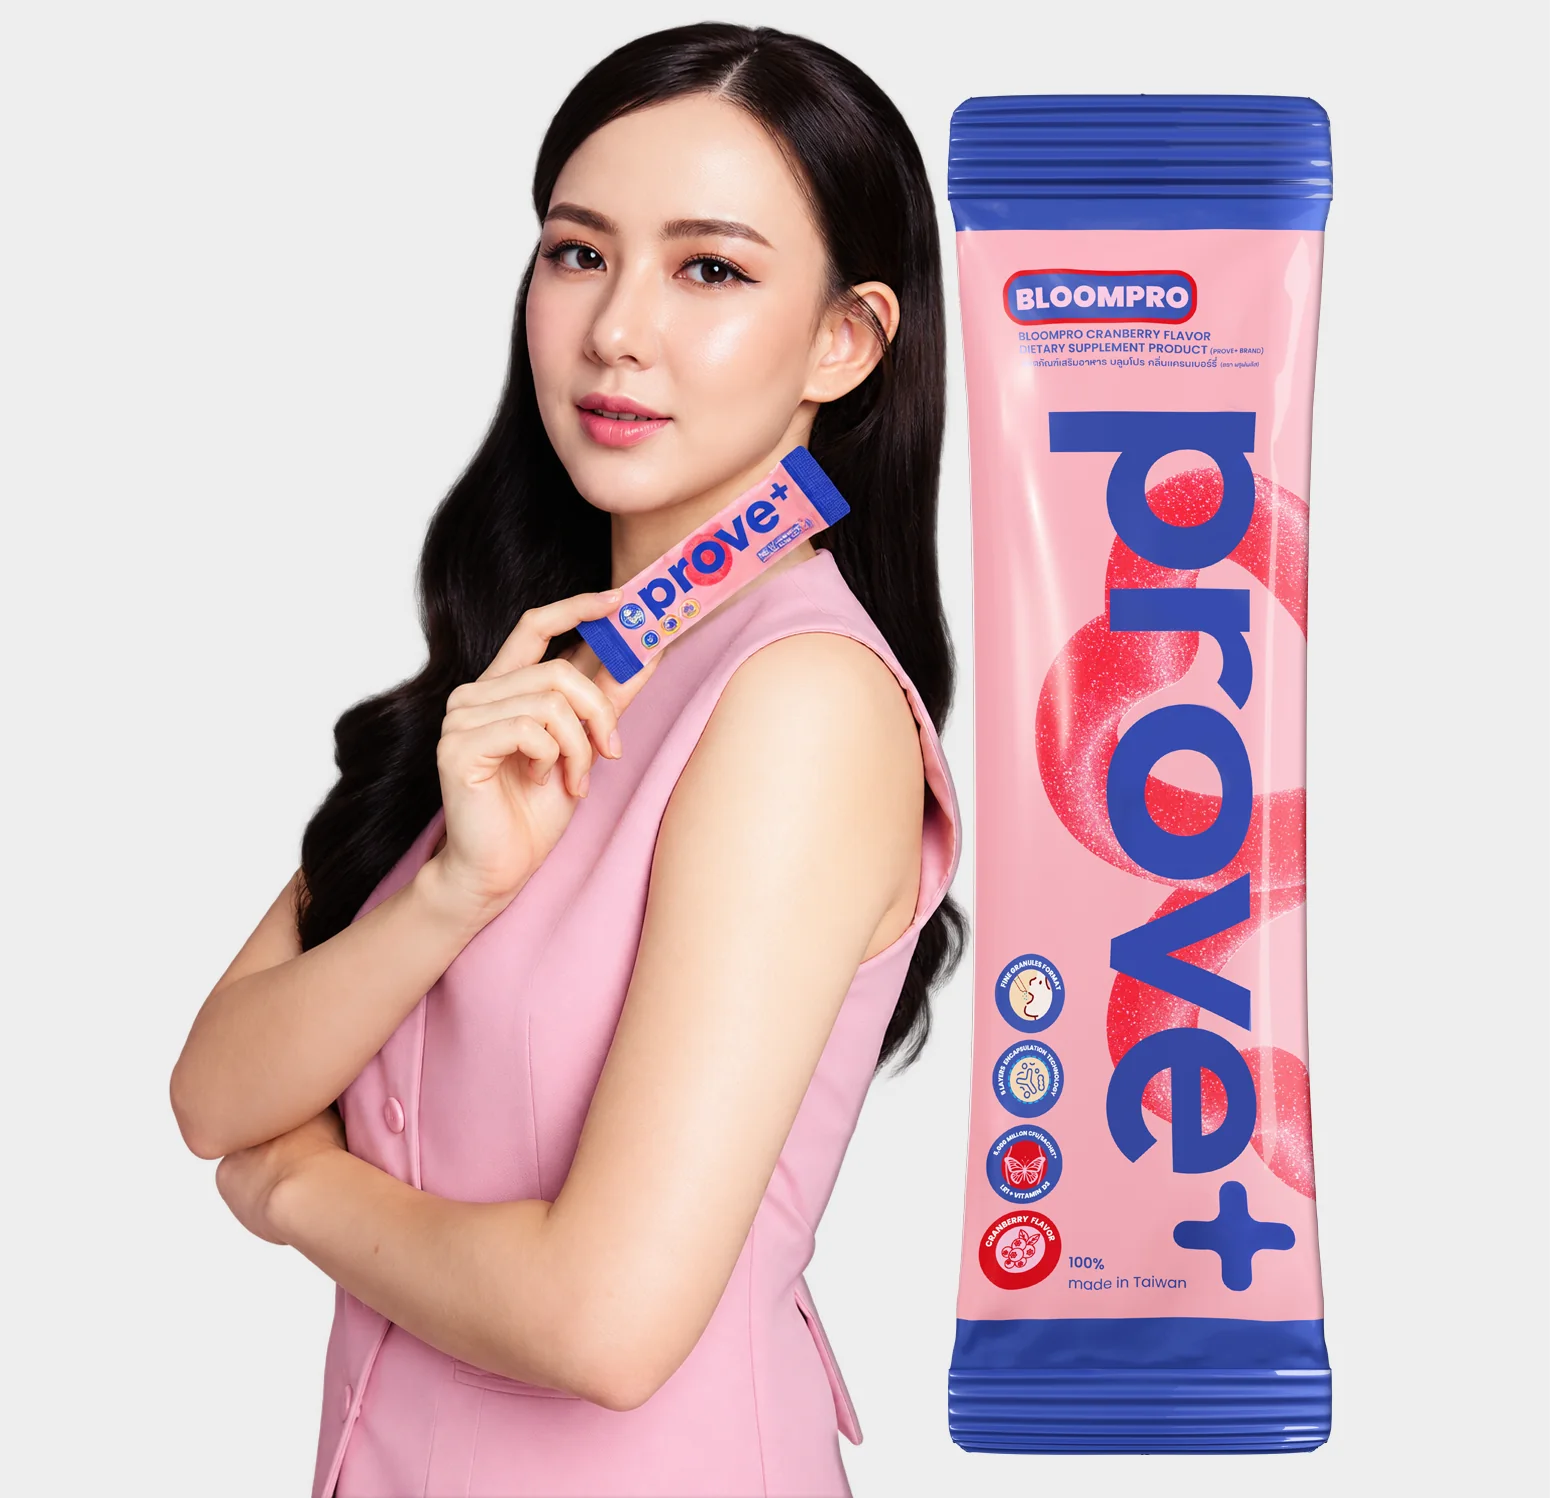
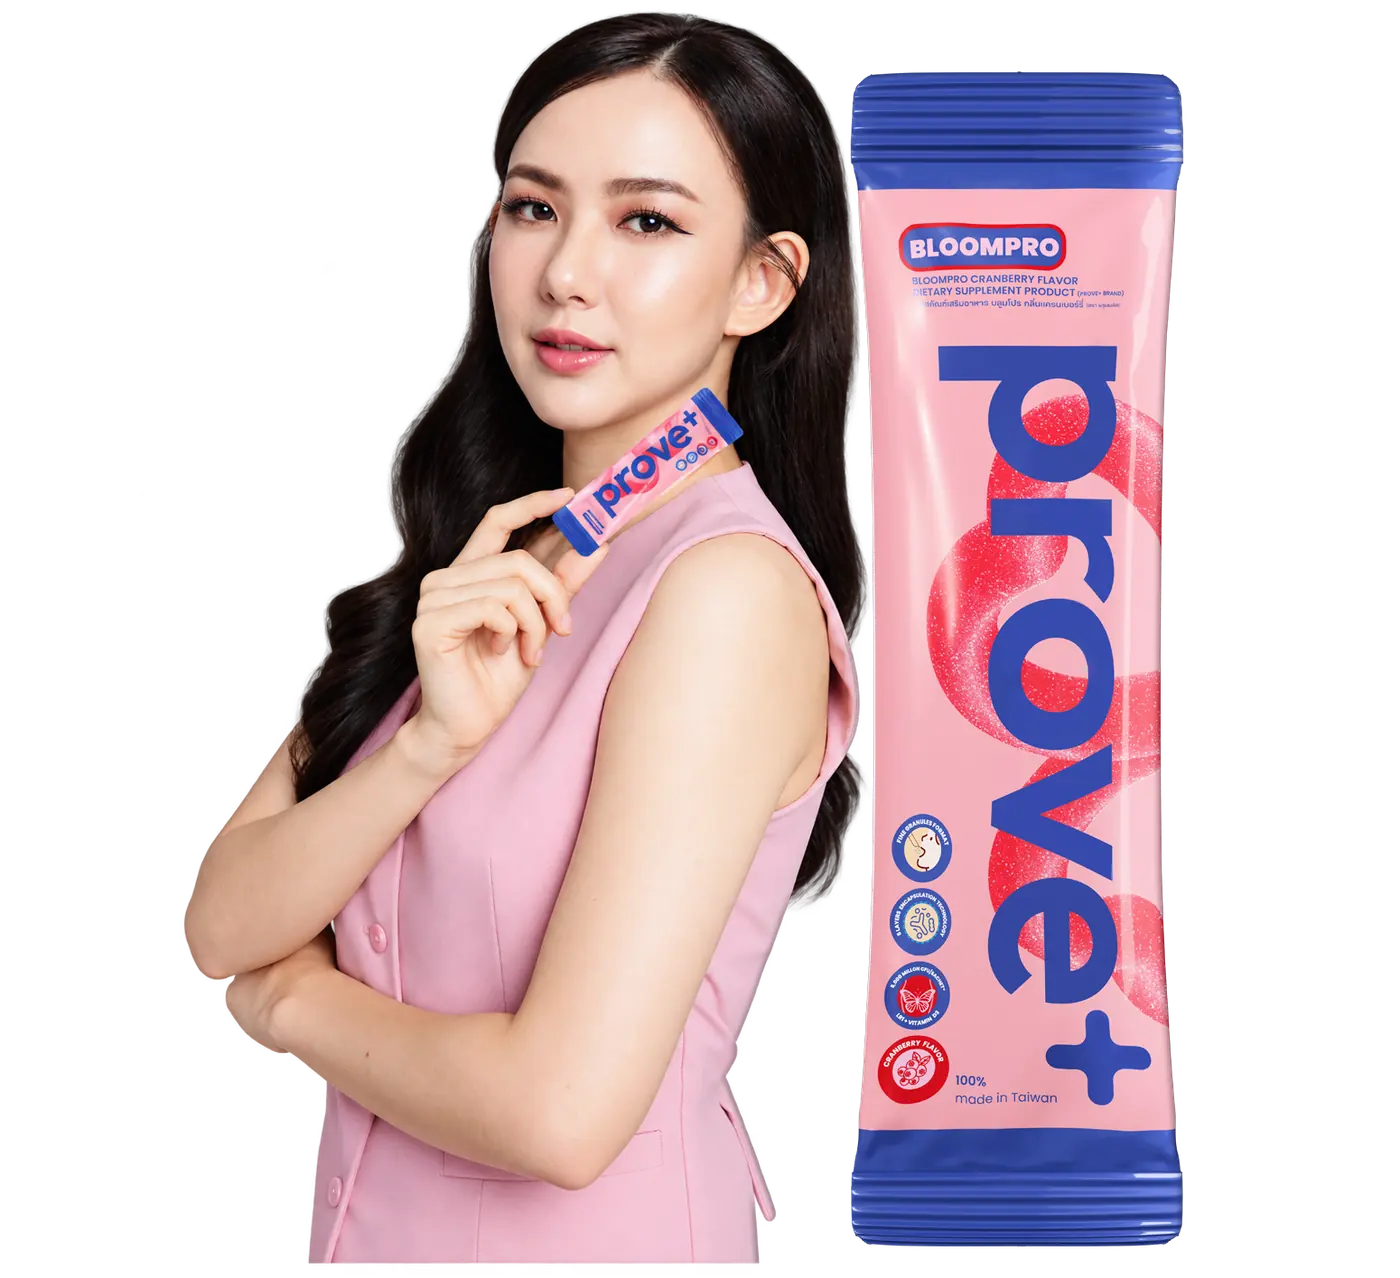
Replace micro probiotic hero image with Bloompro portrait

Changed region(s): [[0.0921, 0.0, 0.86, 1.0], [0.4914, 0.7324, 0.5529, 0.8239], [0.3686, 0.0305, 0.3993, 0.061]]

diff --git a/app/components/v2/MicroProbioticSection.tsx b/app/components/v2/MicroProbioticSection.tsx
@@ -123,7 +123,7 @@ export function MicroProbioticSection() {
           <div className="relative w-full h-full rounded-full sm:rounded-full overflow-hidden bg-[rgba(166,180,220,0.24)]">
             <Image
               src={imgMix1}
-              alt="Prove+ Sampling Kit"
+              alt="Prove+ BloomPro probiotic with woman"
               fill
               sizes="(max-width: 640px) 90vw, (max-width: 1024px) 500px, 552px"
               className="object-cover"
